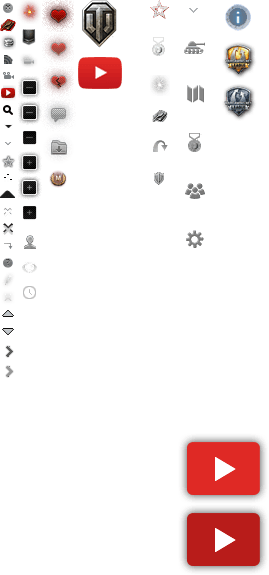
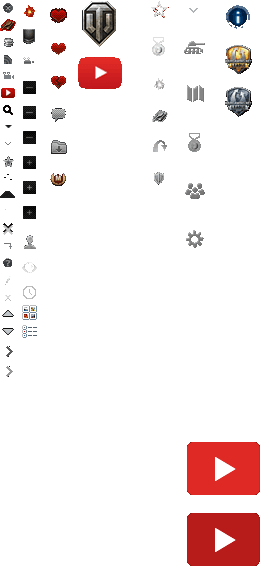
view switcher draft

diff --git a/src/main/webapp/WEB-INF/ftl/facets/fieldFacet.js b/src/main/webapp/WEB-INF/ftl/facets/fieldFacet.js
@@ -25,8 +25,8 @@ FieldFacet.prototype.setStateFromUrl = function (queryParams) {
         $('#' + this.id + ' #' + value).prop('checked', selectedValues.indexOf(value) != -1);
 };
 
-FieldFacet.prototype.setSearchResult = function (result) {
-    var data = result.facets[this.id];
+FieldFacet.prototype.setSearchResult = function () {
+    var data = history.state.facets[this.id];
     if (data)
         for (var value in this.values) {
             var count = data[value];

diff --git a/src/main/webapp/resources/css/main.css b/src/main/webapp/resources/css/main.css
@@ -4638,6 +4638,22 @@ i.i-48_wotreplays {
     color: #656565
 }
 
+.battles_view .list {
+    width: 15px;
+    height: 15px;
+    background: url("/resources/img/icons.png") -22px -311px no-repeat;
+}
+
+.battles_view .tile {
+    width: 15px;
+    height: 15px;
+    background: url("/resources/img/icons.png") -22px -338px no-repeat;
+}
+
+.battles_view .active {
+
+}
+
 .selected-filters i {
     display: inline-block;
     width: 8px;

diff --git a/src/main/webapp/WEB-INF/ftl/facets/pageFacet.js b/src/main/webapp/WEB-INF/ftl/facets/pageFacet.js
@@ -20,6 +20,7 @@ PageFacet.prototype.getQueryParams = function () {
 PageFacet.prototype.setStateFromUrl = function (params) {
 };
 
-PageFacet.prototype.setSearchResult = function (data) {
+PageFacet.prototype.setSearchResult = function () {
+    var data = history.state;
     this.pagesCount = Math.ceil(data.total / this.itemsPerPage);
 };
